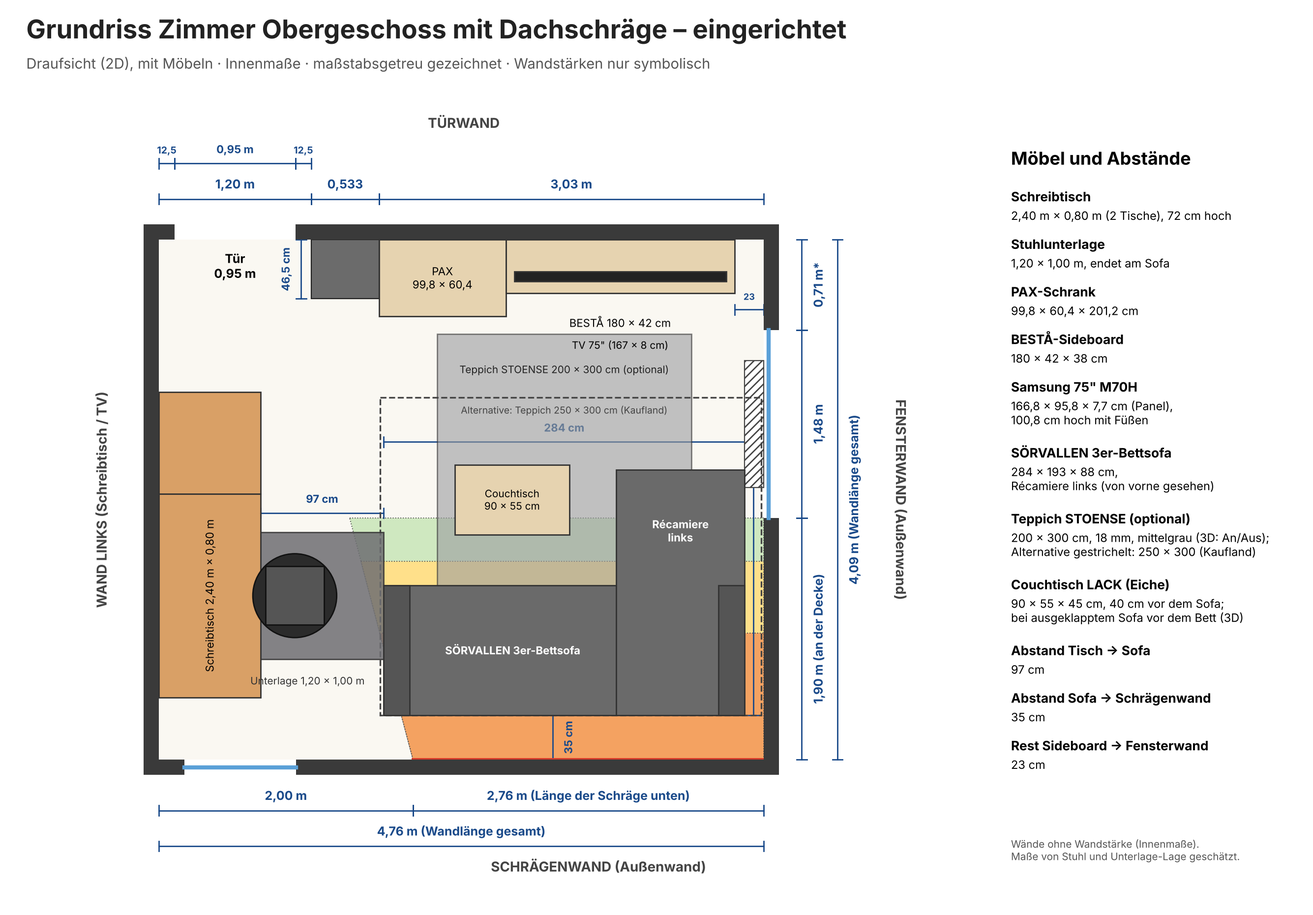
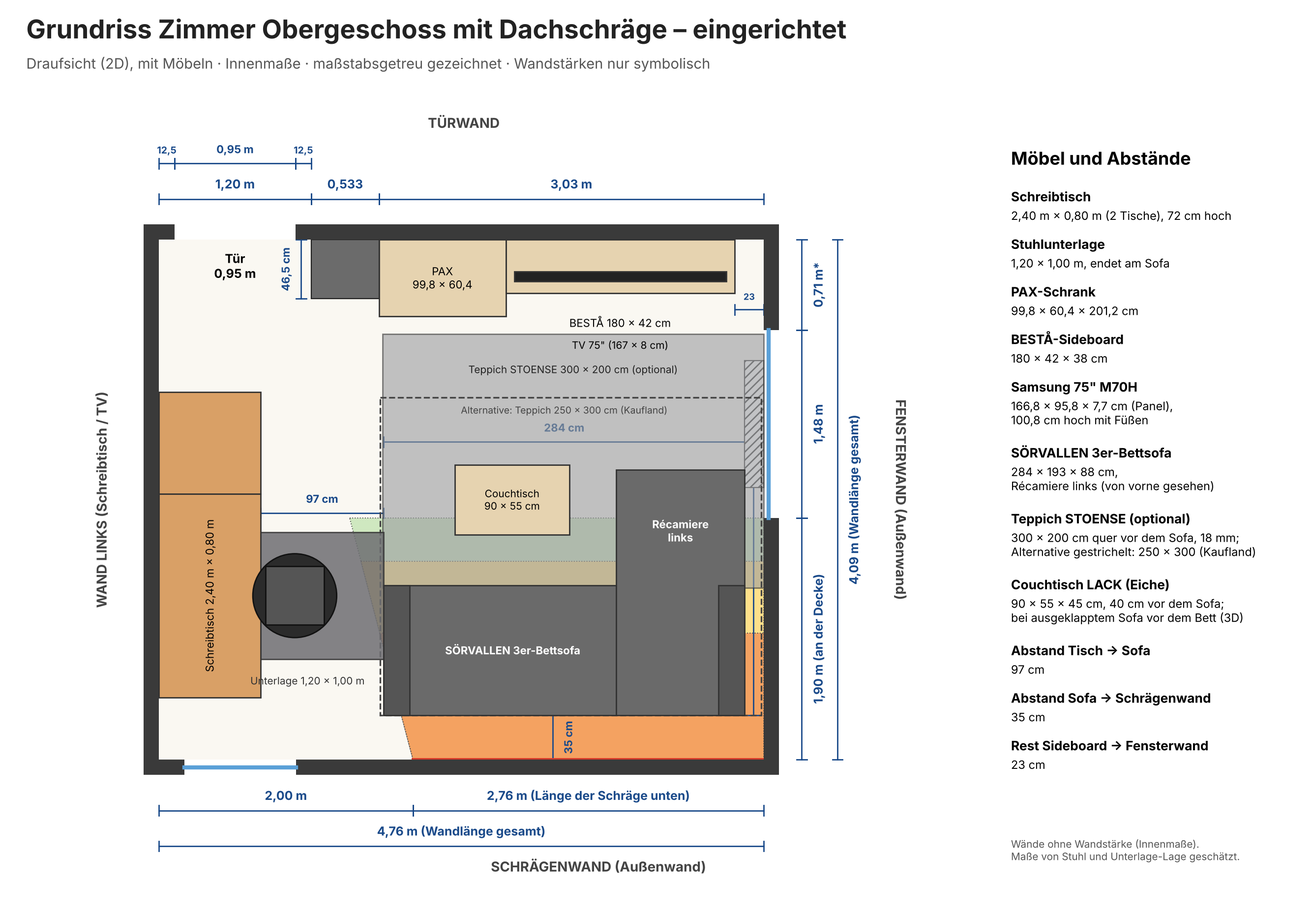
IKEA-Teppich quer vor das Sofa (300 x 200, von Westende bis Fensterwand, vor der Récamiere-Stirnseite)
Claude-Session: https://claude.ai/code/session_01Hf3Bkowp5NFKLbRns8Nosg

diff --git a/eingerichtet.html b/eingerichtet.html
@@ -320,8 +320,8 @@ cat='ctb';lackTable(CTB);
 var ctB=room.children.slice(ctS).filter(function(o){return o.type!=='Group';});
 ctB.forEach(function(o){o.visible=false;});
 ctDims('ctb',function(hx,vy,vz){hx(CTB[1]-0.10,CTB[0],CTB[2]);vy(2.65,CTB[1],CTB[3]);vy(2.65,CTB[3],BYF);vy(3.85,SBD,CTB[1]);vz(CTB[2]+0.06,(CTB[1]+CTB[3])/2,0,0.45);});
-// Teppich IKEA STOENSE Kurzflor, mittelgrau, 200 x 300 cm, Gesamtdicke 18 mm (Maße laut IKEA). Lage: hinten am Sofa-Kopfteil (35 cm vor der Schrägenwand), unter Sofa und Couchtisch. Ein/Aus per Knopf.
-var RG=[2.19,0.74,4.19,3.74],RA=[1.74,1.24,4.74,3.74],rugOn=true,altOn=false;
+// Teppich IKEA STOENSE Kurzflor, mittelgrau, 200 x 300 cm, Gesamtdicke 18 mm (Maße laut IKEA). Lage: quer vor dem Sofa, von der Armlehne am Westende (x 1,76 m) bis zur Fensterwand, vor der Récamiere-Stirnseite, unter dem Couchtisch (300 cm breit, 200 cm tief). Ein/Aus per Knopf.
+var RG=[1.76,0.74,4.76,2.74],RA=[1.74,1.24,4.74,3.74],rugOn=true,altOn=false;
 var rugS=room.children.length;
 cat='tp1';box(RG[0],RG[1],0,RG[2],RG[3],0.018,0x8e9093);
 var rugObjs=room.children.slice(rugS).filter(function(o){return o.type!=='Group';});
@@ -467,7 +467,7 @@ var LC={'Schreibtisch 2,40 m':'tisch','Höhe 72 cm':'tisch','Tiefe 80 cm':'tisch
  'Schrank 99,8 × 60,4 × 201,2 cm':'schrank','201,2 cm':'schrank','99,8 cm':'schrank',
  'Sideboard 180 × 42 × 38 cm':'sideboard','38 cm':'sideboard','180 cm':'sideboard','Rest bis Fensterwand ≈ 0,23 m':'sideboard',
  'Fernseher 75" · Panel 166,8 × 95,8 × 7,7 cm':'tv','Bilddiagonale ≈ 189 cm (75 Zoll)':'tv','100,8 cm (mit Füßen)':'tv','138,8 cm gesamt':'tv',
- 'Sofa SÖRVALLEN 284 × 193 × 88 cm':'sofa','284 cm':'sofa','35 cm Abstand zur Schrägenwand':'sofa','Tiefe 102 cm':'sofa','193 cm':'sofa','Decke 93 cm: 5 cm Luft über Rücken (88 cm)':'sofa','Schlaffläche 239 × 147 cm':'bett','239 cm':'bett','147 cm':'bett','Bettkante bis Sideboard 1,39 m':'bett','Teppich STOENSE 200 × 300 cm':'tp1','Teppich 200 cm':'tp1','Teppich 300 cm':'tp1','Teppich bis Sideboard 32 cm':'tp1','Alternative: Teppich 250 × 300 cm (Kaufland)':'tp2','Alt-Teppich 300 cm':'tp2','Alt-Teppich 250 cm':'tp2','Alt-Teppich bis Sideboard 82 cm':'tp2','Couchtisch LACK 90 × 55 × 45 cm':'ctn','Breite 90 cm':'ctn','Tiefe 55 cm':'ctn','bis Sofa 40 cm':'ctn','bis Récamiere 36 cm':'ctn','bis Sideboard 1,35 m':'ctn','Höhe 45 cm':'ctn','Couchtisch LACK 90 × 55 × 45 cm (vor dem Bett)':'ctb','Breite 90 cm (vor dem Bett)':'ctb','Tiefe 55 cm (vor dem Bett)':'ctb','bis Bettkante 20 cm':'ctb','bis Sideboard 64 cm':'ctb','Tischhöhe 45 cm':'ctb',
+ 'Sofa SÖRVALLEN 284 × 193 × 88 cm':'sofa','284 cm':'sofa','35 cm Abstand zur Schrägenwand':'sofa','Tiefe 102 cm':'sofa','193 cm':'sofa','Decke 93 cm: 5 cm Luft über Rücken (88 cm)':'sofa','Schlaffläche 239 × 147 cm':'bett','239 cm':'bett','147 cm':'bett','Bettkante bis Sideboard 1,39 m':'bett','Teppich STOENSE 200 × 300 cm':'tp1','Teppich 300 cm (Breite)':'tp1','Teppich 200 cm (Tiefe)':'tp1','Teppich bis Sideboard 32 cm':'tp1','Alternative: Teppich 250 × 300 cm (Kaufland)':'tp2','Alt-Teppich 300 cm':'tp2','Alt-Teppich 250 cm':'tp2','Alt-Teppich bis Sideboard 82 cm':'tp2','Couchtisch LACK 90 × 55 × 45 cm':'ctn','Breite 90 cm':'ctn','Tiefe 55 cm':'ctn','bis Sofa 40 cm':'ctn','bis Récamiere 36 cm':'ctn','bis Sideboard 1,35 m':'ctn','Höhe 45 cm':'ctn','Couchtisch LACK 90 × 55 × 45 cm (vor dem Bett)':'ctb','Breite 90 cm (vor dem Bett)':'ctb','Tiefe 55 cm (vor dem Bett)':'ctb','bis Bettkante 20 cm':'ctb','bis Sideboard 64 cm':'ctb','Tischhöhe 45 cm':'ctb',
  'Unterlage 120 cm':'stuhl','23 cm unter Tischplatte':'stuhl','Unterlage 100 cm':'stuhl','Unterlage endet am Sofa':'stuhl','Bürostuhl (geschätzt)':'stuhl',
  'Tisch bis Sofa 97 cm':'abstand','Stuhl–Sofa 42 cm':'abstand'};
 var labels=[
@@ -484,7 +484,7 @@ var labels=[
  ['Decke 93 cm: 5 cm Luft über Rücken (88 cm)',SX0+SWD/2,D-SGAP,0.95],
  ['Schlaffläche 239 × 147 cm',3.2,(BYF+BYR)/2,0.9],['239 cm',(BXA+BXB)/2,BYF-0.15,0.02],['147 cm',SX0-0.12,(BYF+BYR)/2,0.02],['Bettkante bis Sideboard 1,39 m',4.25,(SBD+BYF)/2,0.02],
  ['Couchtisch LACK 90 × 55 × 45 cm',(CTN[0]+CTN[2])/2,(CTN[1]+CTN[3])/2,0.62],['Breite 90 cm',(CTN[0]+CTN[2])/2,CTN[1]-0.10,0.02],['Tiefe 55 cm',2.23,(CTN[1]+CTN[3])/2,0.02],['bis Sofa 40 cm',2.23,(CTN[3]+2.72)/2,0.02],['bis Récamiere 36 cm',(CTN[2]+3.59)/2,2.05,0.02],['bis Sideboard 1,35 m',2.90,(SBD+CTN[1])/2,0.02],['Höhe 45 cm',CTN[2]+0.06,2.045,0.22],['Couchtisch LACK 90 × 55 × 45 cm (vor dem Bett)',(CTB[0]+CTB[2])/2,(CTB[1]+CTB[3])/2,0.62],['Breite 90 cm (vor dem Bett)',(CTB[0]+CTB[2])/2,CTB[1]-0.10,0.02],['Tiefe 55 cm (vor dem Bett)',2.65,(CTB[1]+CTB[3])/2,0.02],['bis Bettkante 20 cm',2.65,(CTB[3]+BYF)/2,0.02],['bis Sideboard 64 cm',3.85,(SBD+CTB[1])/2,0.02],['Tischhöhe 45 cm',CTB[2]+0.06,(CTB[1]+CTB[3])/2,0.22],
- ['Teppich STOENSE 200 × 300 cm',(RG[0]+RG[2])/2,0.95,0.05],['Teppich 200 cm',(RG[0]+RG[2])/2,RG[1]-0.10,0.02],['Teppich 300 cm',1.70,(RG[1]+RG[3])/2,0.02],['Teppich bis Sideboard 32 cm',3.00,(SBD+RG[1])/2,0.02],['Alternative: Teppich 250 × 300 cm (Kaufland)',(RA[0]+RA[2])/2,0.95,0.05],['Alt-Teppich 300 cm',(RA[0]+RA[2])/2,RA[1]-0.10,0.02],['Alt-Teppich 250 cm',1.64,(RA[1]+RA[3])/2,0.02],['Alt-Teppich bis Sideboard 82 cm',3.00,(SBD+RA[1])/2,0.02],
+ ['Teppich STOENSE 200 × 300 cm',(RG[0]+RG[2])/2,0.95,0.05],['Teppich 300 cm (Breite)',(RG[0]+RG[2])/2,RG[1]-0.10,0.02],['Teppich 200 cm (Tiefe)',1.70,(RG[1]+RG[3])/2,0.02],['Teppich bis Sideboard 32 cm',3.00,(SBD+RG[1])/2,0.02],['Alternative: Teppich 250 × 300 cm (Kaufland)',(RA[0]+RA[2])/2,0.95,0.05],['Alt-Teppich 300 cm',(RA[0]+RA[2])/2,RA[1]-0.10,0.02],['Alt-Teppich 250 cm',1.64,(RA[1]+RA[3])/2,0.02],['Alt-Teppich bis Sideboard 82 cm',3.00,(SBD+RA[1])/2,0.02],
  ['Tisch bis Sofa 97 cm',(0.80+SX0)/2,2.10,0.03],['Unterlage 120 cm',(MX0+MX1)/2,MY0-0.04,0.03],['23 cm unter Tischplatte',MX0+0.07,MY0-0.12,0.03],['Unterlage 100 cm',MX1,(MY0+MY1)/2,0.03],
  ['Stuhl–Sofa 42 cm',(CCX+0.275+SX0)/2,2.95,0.03],['Unterlage endet am Sofa',MX1,MY0-0.12,0.03],['Bürostuhl (geschätzt)',CCX,CCY,1.12],['99,8 cm',PX0+PW/2,0.75,0.02],['180 cm',SB0+SBW/2,0.75,0.02],['Rest bis Fensterwand ≈ 0,23 m',SB0+SBW+0.115,0.75,0.02]
 ].map(function(l){var d=document.createElement('div');d.className='lbl';d.textContent=l[0];stage.appendChild(d);return {el:d,p:P(l[1],l[2],l[3]),cat:LC[l[0]]||'raum'};});

diff --git a/eingerichtet_mobil.html b/eingerichtet_mobil.html
@@ -337,8 +337,8 @@ cat='ctb';lackTable(CTB);
 var ctB=room.children.slice(ctS).filter(function(o){return o.type!=='Group';});
 ctB.forEach(function(o){o.visible=false;});
 ctDims('ctb',function(hx,vy,vz){hx(CTB[1]-0.10,CTB[0],CTB[2]);vy(2.65,CTB[1],CTB[3]);vy(2.65,CTB[3],BYF);vy(3.85,SBD,CTB[1]);vz(CTB[2]+0.06,(CTB[1]+CTB[3])/2,0,0.45);});
-// Teppich IKEA STOENSE Kurzflor, mittelgrau, 200 x 300 cm, Gesamtdicke 18 mm (Maße laut IKEA). Lage: hinten am Sofa-Kopfteil (35 cm vor der Schrägenwand), unter Sofa und Couchtisch. Ein/Aus per Knopf.
-var RG=[2.19,0.74,4.19,3.74],RA=[1.74,1.24,4.74,3.74],rugOn=true,altOn=false;
+// Teppich IKEA STOENSE Kurzflor, mittelgrau, 200 x 300 cm, Gesamtdicke 18 mm (Maße laut IKEA). Lage: quer vor dem Sofa, von der Armlehne am Westende (x 1,76 m) bis zur Fensterwand, vor der Récamiere-Stirnseite, unter dem Couchtisch (300 cm breit, 200 cm tief). Ein/Aus per Knopf.
+var RG=[1.76,0.74,4.76,2.74],RA=[1.74,1.24,4.74,3.74],rugOn=true,altOn=false;
 var rugS=room.children.length;
 cat='tp1';box(RG[0],RG[1],0,RG[2],RG[3],0.018,0x8e9093);
 var rugObjs=room.children.slice(rugS).filter(function(o){return o.type!=='Group';});
@@ -484,7 +484,7 @@ var LC={'Schreibtisch 2,40 m':'tisch','Höhe 72 cm':'tisch','Tiefe 80 cm':'tisch
  'Schrank 99,8 × 60,4 × 201,2 cm':'schrank','201,2 cm':'schrank','99,8 cm':'schrank',
  'Sideboard 180 × 42 × 38 cm':'sideboard','38 cm':'sideboard','180 cm':'sideboard','Rest bis Fensterwand ≈ 0,23 m':'sideboard',
  'Fernseher 75" · Panel 166,8 × 95,8 × 7,7 cm':'tv','Bilddiagonale ≈ 189 cm (75 Zoll)':'tv','100,8 cm (mit Füßen)':'tv','138,8 cm gesamt':'tv',
- 'Sofa SÖRVALLEN 284 × 193 × 88 cm':'sofa','284 cm':'sofa','35 cm Abstand zur Schrägenwand':'sofa','Tiefe 102 cm':'sofa','193 cm':'sofa','Decke 93 cm: 5 cm Luft über Rücken (88 cm)':'sofa','Schlaffläche 239 × 147 cm':'bett','239 cm':'bett','147 cm':'bett','Bettkante bis Sideboard 1,39 m':'bett','Teppich STOENSE 200 × 300 cm':'tp1','Teppich 200 cm':'tp1','Teppich 300 cm':'tp1','Teppich bis Sideboard 32 cm':'tp1','Alternative: Teppich 250 × 300 cm (Kaufland)':'tp2','Alt-Teppich 300 cm':'tp2','Alt-Teppich 250 cm':'tp2','Alt-Teppich bis Sideboard 82 cm':'tp2','Couchtisch LACK 90 × 55 × 45 cm':'ctn','Breite 90 cm':'ctn','Tiefe 55 cm':'ctn','bis Sofa 40 cm':'ctn','bis Récamiere 36 cm':'ctn','bis Sideboard 1,35 m':'ctn','Höhe 45 cm':'ctn','Couchtisch LACK 90 × 55 × 45 cm (vor dem Bett)':'ctb','Breite 90 cm (vor dem Bett)':'ctb','Tiefe 55 cm (vor dem Bett)':'ctb','bis Bettkante 20 cm':'ctb','bis Sideboard 64 cm':'ctb','Tischhöhe 45 cm':'ctb',
+ 'Sofa SÖRVALLEN 284 × 193 × 88 cm':'sofa','284 cm':'sofa','35 cm Abstand zur Schrägenwand':'sofa','Tiefe 102 cm':'sofa','193 cm':'sofa','Decke 93 cm: 5 cm Luft über Rücken (88 cm)':'sofa','Schlaffläche 239 × 147 cm':'bett','239 cm':'bett','147 cm':'bett','Bettkante bis Sideboard 1,39 m':'bett','Teppich STOENSE 200 × 300 cm':'tp1','Teppich 300 cm (Breite)':'tp1','Teppich 200 cm (Tiefe)':'tp1','Teppich bis Sideboard 32 cm':'tp1','Alternative: Teppich 250 × 300 cm (Kaufland)':'tp2','Alt-Teppich 300 cm':'tp2','Alt-Teppich 250 cm':'tp2','Alt-Teppich bis Sideboard 82 cm':'tp2','Couchtisch LACK 90 × 55 × 45 cm':'ctn','Breite 90 cm':'ctn','Tiefe 55 cm':'ctn','bis Sofa 40 cm':'ctn','bis Récamiere 36 cm':'ctn','bis Sideboard 1,35 m':'ctn','Höhe 45 cm':'ctn','Couchtisch LACK 90 × 55 × 45 cm (vor dem Bett)':'ctb','Breite 90 cm (vor dem Bett)':'ctb','Tiefe 55 cm (vor dem Bett)':'ctb','bis Bettkante 20 cm':'ctb','bis Sideboard 64 cm':'ctb','Tischhöhe 45 cm':'ctb',
  'Unterlage 120 cm':'stuhl','23 cm unter Tischplatte':'stuhl','Unterlage 100 cm':'stuhl','Unterlage endet am Sofa':'stuhl','Bürostuhl (geschätzt)':'stuhl',
  'Tisch bis Sofa 97 cm':'abstand','Stuhl–Sofa 42 cm':'abstand'};
 var labels=[
@@ -501,7 +501,7 @@ var labels=[
  ['Decke 93 cm: 5 cm Luft über Rücken (88 cm)',SX0+SWD/2,D-SGAP,0.95],
  ['Schlaffläche 239 × 147 cm',3.2,(BYF+BYR)/2,0.9],['239 cm',(BXA+BXB)/2,BYF-0.15,0.02],['147 cm',SX0-0.12,(BYF+BYR)/2,0.02],['Bettkante bis Sideboard 1,39 m',4.25,(SBD+BYF)/2,0.02],
  ['Couchtisch LACK 90 × 55 × 45 cm',(CTN[0]+CTN[2])/2,(CTN[1]+CTN[3])/2,0.62],['Breite 90 cm',(CTN[0]+CTN[2])/2,CTN[1]-0.10,0.02],['Tiefe 55 cm',2.23,(CTN[1]+CTN[3])/2,0.02],['bis Sofa 40 cm',2.23,(CTN[3]+2.72)/2,0.02],['bis Récamiere 36 cm',(CTN[2]+3.59)/2,2.05,0.02],['bis Sideboard 1,35 m',2.90,(SBD+CTN[1])/2,0.02],['Höhe 45 cm',CTN[2]+0.06,2.045,0.22],['Couchtisch LACK 90 × 55 × 45 cm (vor dem Bett)',(CTB[0]+CTB[2])/2,(CTB[1]+CTB[3])/2,0.62],['Breite 90 cm (vor dem Bett)',(CTB[0]+CTB[2])/2,CTB[1]-0.10,0.02],['Tiefe 55 cm (vor dem Bett)',2.65,(CTB[1]+CTB[3])/2,0.02],['bis Bettkante 20 cm',2.65,(CTB[3]+BYF)/2,0.02],['bis Sideboard 64 cm',3.85,(SBD+CTB[1])/2,0.02],['Tischhöhe 45 cm',CTB[2]+0.06,(CTB[1]+CTB[3])/2,0.22],
- ['Teppich STOENSE 200 × 300 cm',(RG[0]+RG[2])/2,0.95,0.05],['Teppich 200 cm',(RG[0]+RG[2])/2,RG[1]-0.10,0.02],['Teppich 300 cm',1.70,(RG[1]+RG[3])/2,0.02],['Teppich bis Sideboard 32 cm',3.00,(SBD+RG[1])/2,0.02],['Alternative: Teppich 250 × 300 cm (Kaufland)',(RA[0]+RA[2])/2,0.95,0.05],['Alt-Teppich 300 cm',(RA[0]+RA[2])/2,RA[1]-0.10,0.02],['Alt-Teppich 250 cm',1.64,(RA[1]+RA[3])/2,0.02],['Alt-Teppich bis Sideboard 82 cm',3.00,(SBD+RA[1])/2,0.02],
+ ['Teppich STOENSE 200 × 300 cm',(RG[0]+RG[2])/2,0.95,0.05],['Teppich 300 cm (Breite)',(RG[0]+RG[2])/2,RG[1]-0.10,0.02],['Teppich 200 cm (Tiefe)',1.70,(RG[1]+RG[3])/2,0.02],['Teppich bis Sideboard 32 cm',3.00,(SBD+RG[1])/2,0.02],['Alternative: Teppich 250 × 300 cm (Kaufland)',(RA[0]+RA[2])/2,0.95,0.05],['Alt-Teppich 300 cm',(RA[0]+RA[2])/2,RA[1]-0.10,0.02],['Alt-Teppich 250 cm',1.64,(RA[1]+RA[3])/2,0.02],['Alt-Teppich bis Sideboard 82 cm',3.00,(SBD+RA[1])/2,0.02],
  ['Tisch bis Sofa 97 cm',(0.80+SX0)/2,2.10,0.03],['Unterlage 120 cm',(MX0+MX1)/2,MY0-0.04,0.03],['23 cm unter Tischplatte',MX0+0.07,MY0-0.12,0.03],['Unterlage 100 cm',MX1,(MY0+MY1)/2,0.03],
  ['Stuhl–Sofa 42 cm',(CCX+0.275+SX0)/2,2.95,0.03],['Unterlage endet am Sofa',MX1,MY0-0.12,0.03],['Bürostuhl (geschätzt)',CCX,CCY,1.12],['99,8 cm',PX0+PW/2,0.75,0.02],['180 cm',SB0+SBW/2,0.75,0.02],['Rest bis Fensterwand ≈ 0,23 m',SB0+SBW+0.115,0.75,0.02]
 ].map(function(l){var d=document.createElement('div');d.className='lbl';d.textContent=l[0];stage.appendChild(d);return {el:d,p:P(l[1],l[2],l[3]),cat:LC[l[0]]||'raum'};});

diff --git a/interaktiv.html b/interaktiv.html
@@ -320,8 +320,8 @@ cat='ctb';lackTable(CTB);
 var ctB=room.children.slice(ctS).filter(function(o){return o.type!=='Group';});
 ctB.forEach(function(o){o.visible=false;});
 ctDims('ctb',function(hx,vy,vz){hx(CTB[1]-0.10,CTB[0],CTB[2]);vy(2.65,CTB[1],CTB[3]);vy(2.65,CTB[3],BYF);vy(3.85,SBD,CTB[1]);vz(CTB[2]+0.06,(CTB[1]+CTB[3])/2,0,0.45);});
-// Teppich IKEA STOENSE Kurzflor, mittelgrau, 200 x 300 cm, Gesamtdicke 18 mm (Maße laut IKEA). Lage: hinten am Sofa-Kopfteil (35 cm vor der Schrägenwand), unter Sofa und Couchtisch. Ein/Aus per Knopf.
-var RG=[2.19,0.74,4.19,3.74],RA=[1.74,1.24,4.74,3.74],rugOn=true,altOn=false;
+// Teppich IKEA STOENSE Kurzflor, mittelgrau, 200 x 300 cm, Gesamtdicke 18 mm (Maße laut IKEA). Lage: quer vor dem Sofa, von der Armlehne am Westende (x 1,76 m) bis zur Fensterwand, vor der Récamiere-Stirnseite, unter dem Couchtisch (300 cm breit, 200 cm tief). Ein/Aus per Knopf.
+var RG=[1.76,0.74,4.76,2.74],RA=[1.74,1.24,4.74,3.74],rugOn=true,altOn=false;
 var rugS=room.children.length;
 cat='tp1';box(RG[0],RG[1],0,RG[2],RG[3],0.018,0x8e9093);
 var rugObjs=room.children.slice(rugS).filter(function(o){return o.type!=='Group';});
@@ -467,7 +467,7 @@ var LC={'Schreibtisch 2,40 m':'tisch','Höhe 72 cm':'tisch','Tiefe 80 cm':'tisch
  'Schrank 99,8 × 60,4 × 201,2 cm':'schrank','201,2 cm':'schrank','99,8 cm':'schrank',
  'Sideboard 180 × 42 × 38 cm':'sideboard','38 cm':'sideboard','180 cm':'sideboard','Rest bis Fensterwand ≈ 0,23 m':'sideboard',
  'Fernseher 75" · Panel 166,8 × 95,8 × 7,7 cm':'tv','Bilddiagonale ≈ 189 cm (75 Zoll)':'tv','100,8 cm (mit Füßen)':'tv','138,8 cm gesamt':'tv',
- 'Sofa SÖRVALLEN 284 × 193 × 88 cm':'sofa','284 cm':'sofa','35 cm Abstand zur Schrägenwand':'sofa','Tiefe 102 cm':'sofa','193 cm':'sofa','Decke 93 cm: 5 cm Luft über Rücken (88 cm)':'sofa','Schlaffläche 239 × 147 cm':'bett','239 cm':'bett','147 cm':'bett','Bettkante bis Sideboard 1,39 m':'bett','Teppich STOENSE 200 × 300 cm':'tp1','Teppich 200 cm':'tp1','Teppich 300 cm':'tp1','Teppich bis Sideboard 32 cm':'tp1','Alternative: Teppich 250 × 300 cm (Kaufland)':'tp2','Alt-Teppich 300 cm':'tp2','Alt-Teppich 250 cm':'tp2','Alt-Teppich bis Sideboard 82 cm':'tp2','Couchtisch LACK 90 × 55 × 45 cm':'ctn','Breite 90 cm':'ctn','Tiefe 55 cm':'ctn','bis Sofa 40 cm':'ctn','bis Récamiere 36 cm':'ctn','bis Sideboard 1,35 m':'ctn','Höhe 45 cm':'ctn','Couchtisch LACK 90 × 55 × 45 cm (vor dem Bett)':'ctb','Breite 90 cm (vor dem Bett)':'ctb','Tiefe 55 cm (vor dem Bett)':'ctb','bis Bettkante 20 cm':'ctb','bis Sideboard 64 cm':'ctb','Tischhöhe 45 cm':'ctb',
+ 'Sofa SÖRVALLEN 284 × 193 × 88 cm':'sofa','284 cm':'sofa','35 cm Abstand zur Schrägenwand':'sofa','Tiefe 102 cm':'sofa','193 cm':'sofa','Decke 93 cm: 5 cm Luft über Rücken (88 cm)':'sofa','Schlaffläche 239 × 147 cm':'bett','239 cm':'bett','147 cm':'bett','Bettkante bis Sideboard 1,39 m':'bett','Teppich STOENSE 200 × 300 cm':'tp1','Teppich 300 cm (Breite)':'tp1','Teppich 200 cm (Tiefe)':'tp1','Teppich bis Sideboard 32 cm':'tp1','Alternative: Teppich 250 × 300 cm (Kaufland)':'tp2','Alt-Teppich 300 cm':'tp2','Alt-Teppich 250 cm':'tp2','Alt-Teppich bis Sideboard 82 cm':'tp2','Couchtisch LACK 90 × 55 × 45 cm':'ctn','Breite 90 cm':'ctn','Tiefe 55 cm':'ctn','bis Sofa 40 cm':'ctn','bis Récamiere 36 cm':'ctn','bis Sideboard 1,35 m':'ctn','Höhe 45 cm':'ctn','Couchtisch LACK 90 × 55 × 45 cm (vor dem Bett)':'ctb','Breite 90 cm (vor dem Bett)':'ctb','Tiefe 55 cm (vor dem Bett)':'ctb','bis Bettkante 20 cm':'ctb','bis Sideboard 64 cm':'ctb','Tischhöhe 45 cm':'ctb',
  'Unterlage 120 cm':'stuhl','23 cm unter Tischplatte':'stuhl','Unterlage 100 cm':'stuhl','Unterlage endet am Sofa':'stuhl','Bürostuhl (geschätzt)':'stuhl',
  'Tisch bis Sofa 97 cm':'abstand','Stuhl–Sofa 42 cm':'abstand'};
 var labels=[
@@ -484,7 +484,7 @@ var labels=[
  ['Decke 93 cm: 5 cm Luft über Rücken (88 cm)',SX0+SWD/2,D-SGAP,0.95],
  ['Schlaffläche 239 × 147 cm',3.2,(BYF+BYR)/2,0.9],['239 cm',(BXA+BXB)/2,BYF-0.15,0.02],['147 cm',SX0-0.12,(BYF+BYR)/2,0.02],['Bettkante bis Sideboard 1,39 m',4.25,(SBD+BYF)/2,0.02],
  ['Couchtisch LACK 90 × 55 × 45 cm',(CTN[0]+CTN[2])/2,(CTN[1]+CTN[3])/2,0.62],['Breite 90 cm',(CTN[0]+CTN[2])/2,CTN[1]-0.10,0.02],['Tiefe 55 cm',2.23,(CTN[1]+CTN[3])/2,0.02],['bis Sofa 40 cm',2.23,(CTN[3]+2.72)/2,0.02],['bis Récamiere 36 cm',(CTN[2]+3.59)/2,2.05,0.02],['bis Sideboard 1,35 m',2.90,(SBD+CTN[1])/2,0.02],['Höhe 45 cm',CTN[2]+0.06,2.045,0.22],['Couchtisch LACK 90 × 55 × 45 cm (vor dem Bett)',(CTB[0]+CTB[2])/2,(CTB[1]+CTB[3])/2,0.62],['Breite 90 cm (vor dem Bett)',(CTB[0]+CTB[2])/2,CTB[1]-0.10,0.02],['Tiefe 55 cm (vor dem Bett)',2.65,(CTB[1]+CTB[3])/2,0.02],['bis Bettkante 20 cm',2.65,(CTB[3]+BYF)/2,0.02],['bis Sideboard 64 cm',3.85,(SBD+CTB[1])/2,0.02],['Tischhöhe 45 cm',CTB[2]+0.06,(CTB[1]+CTB[3])/2,0.22],
- ['Teppich STOENSE 200 × 300 cm',(RG[0]+RG[2])/2,0.95,0.05],['Teppich 200 cm',(RG[0]+RG[2])/2,RG[1]-0.10,0.02],['Teppich 300 cm',1.70,(RG[1]+RG[3])/2,0.02],['Teppich bis Sideboard 32 cm',3.00,(SBD+RG[1])/2,0.02],['Alternative: Teppich 250 × 300 cm (Kaufland)',(RA[0]+RA[2])/2,0.95,0.05],['Alt-Teppich 300 cm',(RA[0]+RA[2])/2,RA[1]-0.10,0.02],['Alt-Teppich 250 cm',1.64,(RA[1]+RA[3])/2,0.02],['Alt-Teppich bis Sideboard 82 cm',3.00,(SBD+RA[1])/2,0.02],
+ ['Teppich STOENSE 200 × 300 cm',(RG[0]+RG[2])/2,0.95,0.05],['Teppich 300 cm (Breite)',(RG[0]+RG[2])/2,RG[1]-0.10,0.02],['Teppich 200 cm (Tiefe)',1.70,(RG[1]+RG[3])/2,0.02],['Teppich bis Sideboard 32 cm',3.00,(SBD+RG[1])/2,0.02],['Alternative: Teppich 250 × 300 cm (Kaufland)',(RA[0]+RA[2])/2,0.95,0.05],['Alt-Teppich 300 cm',(RA[0]+RA[2])/2,RA[1]-0.10,0.02],['Alt-Teppich 250 cm',1.64,(RA[1]+RA[3])/2,0.02],['Alt-Teppich bis Sideboard 82 cm',3.00,(SBD+RA[1])/2,0.02],
  ['Tisch bis Sofa 97 cm',(0.80+SX0)/2,2.10,0.03],['Unterlage 120 cm',(MX0+MX1)/2,MY0-0.04,0.03],['23 cm unter Tischplatte',MX0+0.07,MY0-0.12,0.03],['Unterlage 100 cm',MX1,(MY0+MY1)/2,0.03],
  ['Stuhl–Sofa 42 cm',(CCX+0.275+SX0)/2,2.95,0.03],['Unterlage endet am Sofa',MX1,MY0-0.12,0.03],['Bürostuhl (geschätzt)',CCX,CCY,1.12],['99,8 cm',PX0+PW/2,0.75,0.02],['180 cm',SB0+SBW/2,0.75,0.02],['Rest bis Fensterwand ≈ 0,23 m',SB0+SBW+0.115,0.75,0.02]
 ].map(function(l){var d=document.createElement('div');d.className='lbl';d.textContent=l[0];stage.appendChild(d);return {el:d,p:P(l[1],l[2],l[3]),cat:LC[l[0]]||'raum'};});

diff --git a/interaktiv_mobil.html b/interaktiv_mobil.html
@@ -337,8 +337,8 @@ cat='ctb';lackTable(CTB);
 var ctB=room.children.slice(ctS).filter(function(o){return o.type!=='Group';});
 ctB.forEach(function(o){o.visible=false;});
 ctDims('ctb',function(hx,vy,vz){hx(CTB[1]-0.10,CTB[0],CTB[2]);vy(2.65,CTB[1],CTB[3]);vy(2.65,CTB[3],BYF);vy(3.85,SBD,CTB[1]);vz(CTB[2]+0.06,(CTB[1]+CTB[3])/2,0,0.45);});
-// Teppich IKEA STOENSE Kurzflor, mittelgrau, 200 x 300 cm, Gesamtdicke 18 mm (Maße laut IKEA). Lage: hinten am Sofa-Kopfteil (35 cm vor der Schrägenwand), unter Sofa und Couchtisch. Ein/Aus per Knopf.
-var RG=[2.19,0.74,4.19,3.74],RA=[1.74,1.24,4.74,3.74],rugOn=true,altOn=false;
+// Teppich IKEA STOENSE Kurzflor, mittelgrau, 200 x 300 cm, Gesamtdicke 18 mm (Maße laut IKEA). Lage: quer vor dem Sofa, von der Armlehne am Westende (x 1,76 m) bis zur Fensterwand, vor der Récamiere-Stirnseite, unter dem Couchtisch (300 cm breit, 200 cm tief). Ein/Aus per Knopf.
+var RG=[1.76,0.74,4.76,2.74],RA=[1.74,1.24,4.74,3.74],rugOn=true,altOn=false;
 var rugS=room.children.length;
 cat='tp1';box(RG[0],RG[1],0,RG[2],RG[3],0.018,0x8e9093);
 var rugObjs=room.children.slice(rugS).filter(function(o){return o.type!=='Group';});
@@ -484,7 +484,7 @@ var LC={'Schreibtisch 2,40 m':'tisch','Höhe 72 cm':'tisch','Tiefe 80 cm':'tisch
  'Schrank 99,8 × 60,4 × 201,2 cm':'schrank','201,2 cm':'schrank','99,8 cm':'schrank',
  'Sideboard 180 × 42 × 38 cm':'sideboard','38 cm':'sideboard','180 cm':'sideboard','Rest bis Fensterwand ≈ 0,23 m':'sideboard',
  'Fernseher 75" · Panel 166,8 × 95,8 × 7,7 cm':'tv','Bilddiagonale ≈ 189 cm (75 Zoll)':'tv','100,8 cm (mit Füßen)':'tv','138,8 cm gesamt':'tv',
- 'Sofa SÖRVALLEN 284 × 193 × 88 cm':'sofa','284 cm':'sofa','35 cm Abstand zur Schrägenwand':'sofa','Tiefe 102 cm':'sofa','193 cm':'sofa','Decke 93 cm: 5 cm Luft über Rücken (88 cm)':'sofa','Schlaffläche 239 × 147 cm':'bett','239 cm':'bett','147 cm':'bett','Bettkante bis Sideboard 1,39 m':'bett','Teppich STOENSE 200 × 300 cm':'tp1','Teppich 200 cm':'tp1','Teppich 300 cm':'tp1','Teppich bis Sideboard 32 cm':'tp1','Alternative: Teppich 250 × 300 cm (Kaufland)':'tp2','Alt-Teppich 300 cm':'tp2','Alt-Teppich 250 cm':'tp2','Alt-Teppich bis Sideboard 82 cm':'tp2','Couchtisch LACK 90 × 55 × 45 cm':'ctn','Breite 90 cm':'ctn','Tiefe 55 cm':'ctn','bis Sofa 40 cm':'ctn','bis Récamiere 36 cm':'ctn','bis Sideboard 1,35 m':'ctn','Höhe 45 cm':'ctn','Couchtisch LACK 90 × 55 × 45 cm (vor dem Bett)':'ctb','Breite 90 cm (vor dem Bett)':'ctb','Tiefe 55 cm (vor dem Bett)':'ctb','bis Bettkante 20 cm':'ctb','bis Sideboard 64 cm':'ctb','Tischhöhe 45 cm':'ctb',
+ 'Sofa SÖRVALLEN 284 × 193 × 88 cm':'sofa','284 cm':'sofa','35 cm Abstand zur Schrägenwand':'sofa','Tiefe 102 cm':'sofa','193 cm':'sofa','Decke 93 cm: 5 cm Luft über Rücken (88 cm)':'sofa','Schlaffläche 239 × 147 cm':'bett','239 cm':'bett','147 cm':'bett','Bettkante bis Sideboard 1,39 m':'bett','Teppich STOENSE 200 × 300 cm':'tp1','Teppich 300 cm (Breite)':'tp1','Teppich 200 cm (Tiefe)':'tp1','Teppich bis Sideboard 32 cm':'tp1','Alternative: Teppich 250 × 300 cm (Kaufland)':'tp2','Alt-Teppich 300 cm':'tp2','Alt-Teppich 250 cm':'tp2','Alt-Teppich bis Sideboard 82 cm':'tp2','Couchtisch LACK 90 × 55 × 45 cm':'ctn','Breite 90 cm':'ctn','Tiefe 55 cm':'ctn','bis Sofa 40 cm':'ctn','bis Récamiere 36 cm':'ctn','bis Sideboard 1,35 m':'ctn','Höhe 45 cm':'ctn','Couchtisch LACK 90 × 55 × 45 cm (vor dem Bett)':'ctb','Breite 90 cm (vor dem Bett)':'ctb','Tiefe 55 cm (vor dem Bett)':'ctb','bis Bettkante 20 cm':'ctb','bis Sideboard 64 cm':'ctb','Tischhöhe 45 cm':'ctb',
  'Unterlage 120 cm':'stuhl','23 cm unter Tischplatte':'stuhl','Unterlage 100 cm':'stuhl','Unterlage endet am Sofa':'stuhl','Bürostuhl (geschätzt)':'stuhl',
  'Tisch bis Sofa 97 cm':'abstand','Stuhl–Sofa 42 cm':'abstand'};
 var labels=[
@@ -501,7 +501,7 @@ var labels=[
  ['Decke 93 cm: 5 cm Luft über Rücken (88 cm)',SX0+SWD/2,D-SGAP,0.95],
  ['Schlaffläche 239 × 147 cm',3.2,(BYF+BYR)/2,0.9],['239 cm',(BXA+BXB)/2,BYF-0.15,0.02],['147 cm',SX0-0.12,(BYF+BYR)/2,0.02],['Bettkante bis Sideboard 1,39 m',4.25,(SBD+BYF)/2,0.02],
  ['Couchtisch LACK 90 × 55 × 45 cm',(CTN[0]+CTN[2])/2,(CTN[1]+CTN[3])/2,0.62],['Breite 90 cm',(CTN[0]+CTN[2])/2,CTN[1]-0.10,0.02],['Tiefe 55 cm',2.23,(CTN[1]+CTN[3])/2,0.02],['bis Sofa 40 cm',2.23,(CTN[3]+2.72)/2,0.02],['bis Récamiere 36 cm',(CTN[2]+3.59)/2,2.05,0.02],['bis Sideboard 1,35 m',2.90,(SBD+CTN[1])/2,0.02],['Höhe 45 cm',CTN[2]+0.06,2.045,0.22],['Couchtisch LACK 90 × 55 × 45 cm (vor dem Bett)',(CTB[0]+CTB[2])/2,(CTB[1]+CTB[3])/2,0.62],['Breite 90 cm (vor dem Bett)',(CTB[0]+CTB[2])/2,CTB[1]-0.10,0.02],['Tiefe 55 cm (vor dem Bett)',2.65,(CTB[1]+CTB[3])/2,0.02],['bis Bettkante 20 cm',2.65,(CTB[3]+BYF)/2,0.02],['bis Sideboard 64 cm',3.85,(SBD+CTB[1])/2,0.02],['Tischhöhe 45 cm',CTB[2]+0.06,(CTB[1]+CTB[3])/2,0.22],
- ['Teppich STOENSE 200 × 300 cm',(RG[0]+RG[2])/2,0.95,0.05],['Teppich 200 cm',(RG[0]+RG[2])/2,RG[1]-0.10,0.02],['Teppich 300 cm',1.70,(RG[1]+RG[3])/2,0.02],['Teppich bis Sideboard 32 cm',3.00,(SBD+RG[1])/2,0.02],['Alternative: Teppich 250 × 300 cm (Kaufland)',(RA[0]+RA[2])/2,0.95,0.05],['Alt-Teppich 300 cm',(RA[0]+RA[2])/2,RA[1]-0.10,0.02],['Alt-Teppich 250 cm',1.64,(RA[1]+RA[3])/2,0.02],['Alt-Teppich bis Sideboard 82 cm',3.00,(SBD+RA[1])/2,0.02],
+ ['Teppich STOENSE 200 × 300 cm',(RG[0]+RG[2])/2,0.95,0.05],['Teppich 300 cm (Breite)',(RG[0]+RG[2])/2,RG[1]-0.10,0.02],['Teppich 200 cm (Tiefe)',1.70,(RG[1]+RG[3])/2,0.02],['Teppich bis Sideboard 32 cm',3.00,(SBD+RG[1])/2,0.02],['Alternative: Teppich 250 × 300 cm (Kaufland)',(RA[0]+RA[2])/2,0.95,0.05],['Alt-Teppich 300 cm',(RA[0]+RA[2])/2,RA[1]-0.10,0.02],['Alt-Teppich 250 cm',1.64,(RA[1]+RA[3])/2,0.02],['Alt-Teppich bis Sideboard 82 cm',3.00,(SBD+RA[1])/2,0.02],
  ['Tisch bis Sofa 97 cm',(0.80+SX0)/2,2.10,0.03],['Unterlage 120 cm',(MX0+MX1)/2,MY0-0.04,0.03],['23 cm unter Tischplatte',MX0+0.07,MY0-0.12,0.03],['Unterlage 100 cm',MX1,(MY0+MY1)/2,0.03],
  ['Stuhl–Sofa 42 cm',(CCX+0.275+SX0)/2,2.95,0.03],['Unterlage endet am Sofa',MX1,MY0-0.12,0.03],['Bürostuhl (geschätzt)',CCX,CCY,1.12],['99,8 cm',PX0+PW/2,0.75,0.02],['180 cm',SB0+SBW/2,0.75,0.02],['Rest bis Fensterwand ≈ 0,23 m',SB0+SBW+0.115,0.75,0.02]
 ].map(function(l){var d=document.createElement('div');d.className='lbl';d.textContent=l[0];stage.appendChild(d);return {el:d,p:P(l[1],l[2],l[3]),cat:LC[l[0]]||'raum'};});

diff --git a/einkaufsliste.html b/einkaufsliste.html
@@ -50,7 +50,7 @@ h2 span{font-weight:500;color:var(--muted);font-size:13px}
 <div class="card"><div class="info"><div class="name">LACK Couchtisch<small>IKEA</small></div><div class="dim">90 × 55 × 45 cm · vor dem Sofa, bei ausgeklapptem Sofa vor dem Bett (20 cm Abstand)</div><div class="tags"><span class="tag">Eicheneffekt weiß lasiert</span><span class="tag">mit Ablage, 19,99 €</span></div></div>
 <a class="btn" href="https://www.ikea.com/de/de/p/lack-couchtisch-eicheneff-wlas-50319029/" target="_blank" rel="noopener">Zum Produkt ↗</a></div>
 
-<div class="card"><div class="info"><div class="name">STOENSE Teppich Kurzflor, mittelgrau<small>IKEA</small></div><div class="dim">200 × 300 cm, Gesamtdicke 18 mm · unter Sofa und Couchtisch, hinten am Kopfteil · 139,00 €</div><div class="tags"><span class="tag">Optional – in den 3D-Ansichten mit „Teppich An / Aus“ ein- und ausblendbar</span></div></div>
+<div class="card"><div class="info"><div class="name">STOENSE Teppich Kurzflor, mittelgrau<small>IKEA</small></div><div class="dim">200 × 300 cm (quer gelegt: 300 breit × 200 tief), Gesamtdicke 18 mm · vor dem Sofa, von der Armlehne am Westende bis zur Fensterwand, vor der Récamiere-Stirnseite · 139,00 €</div><div class="tags"><span class="tag">Optional – in den 3D-Ansichten mit „Teppich An / Aus“ ein- und ausblendbar</span></div></div>
 <a class="btn" href="https://www.ikea.com/de/en/p/stoense-rug-low-pile-medium-grey-30426836/" target="_blank" rel="noopener">Zum Produkt ↗</a></div>
 
 <h2>Amazon <span>– 1 Artikel</span></h2>
